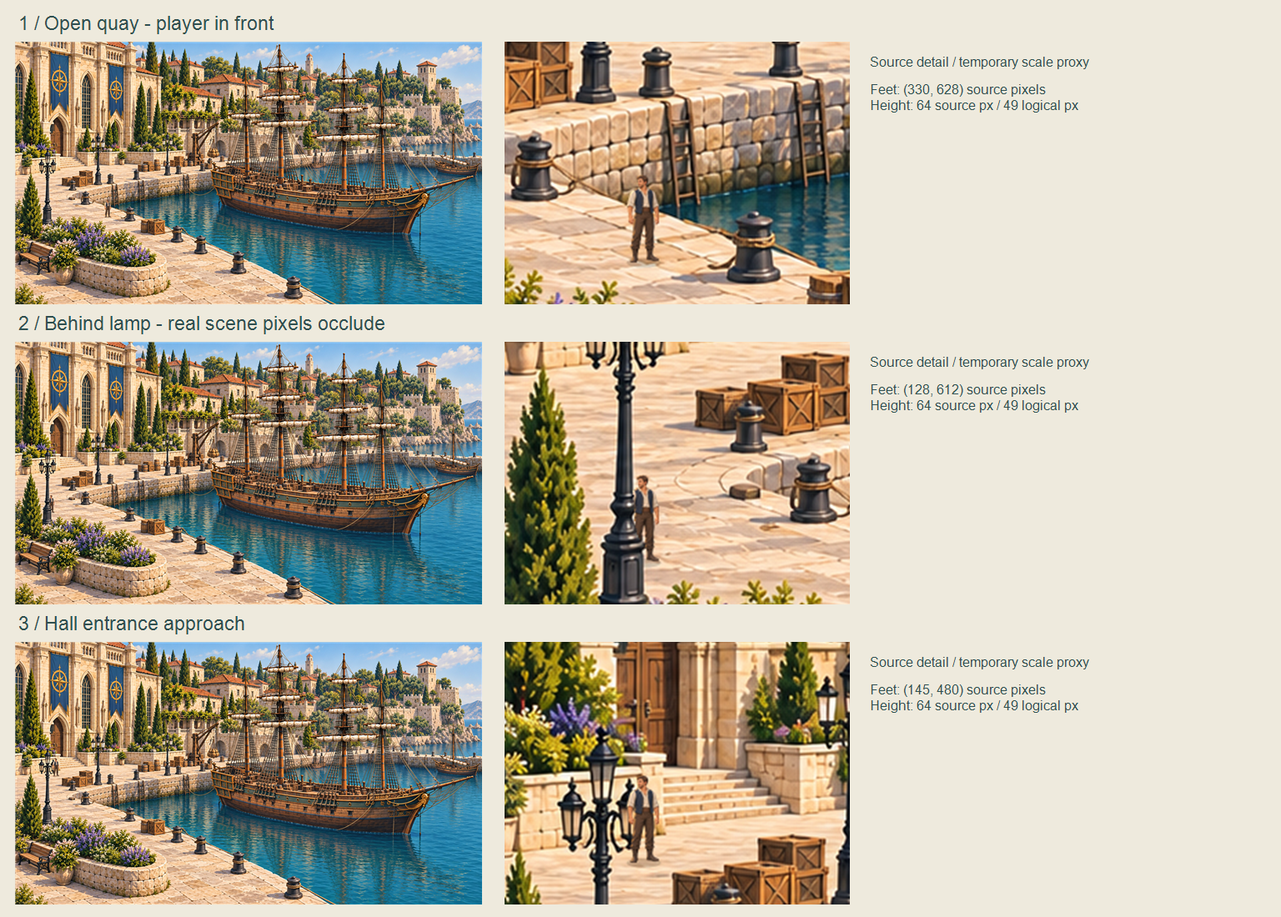
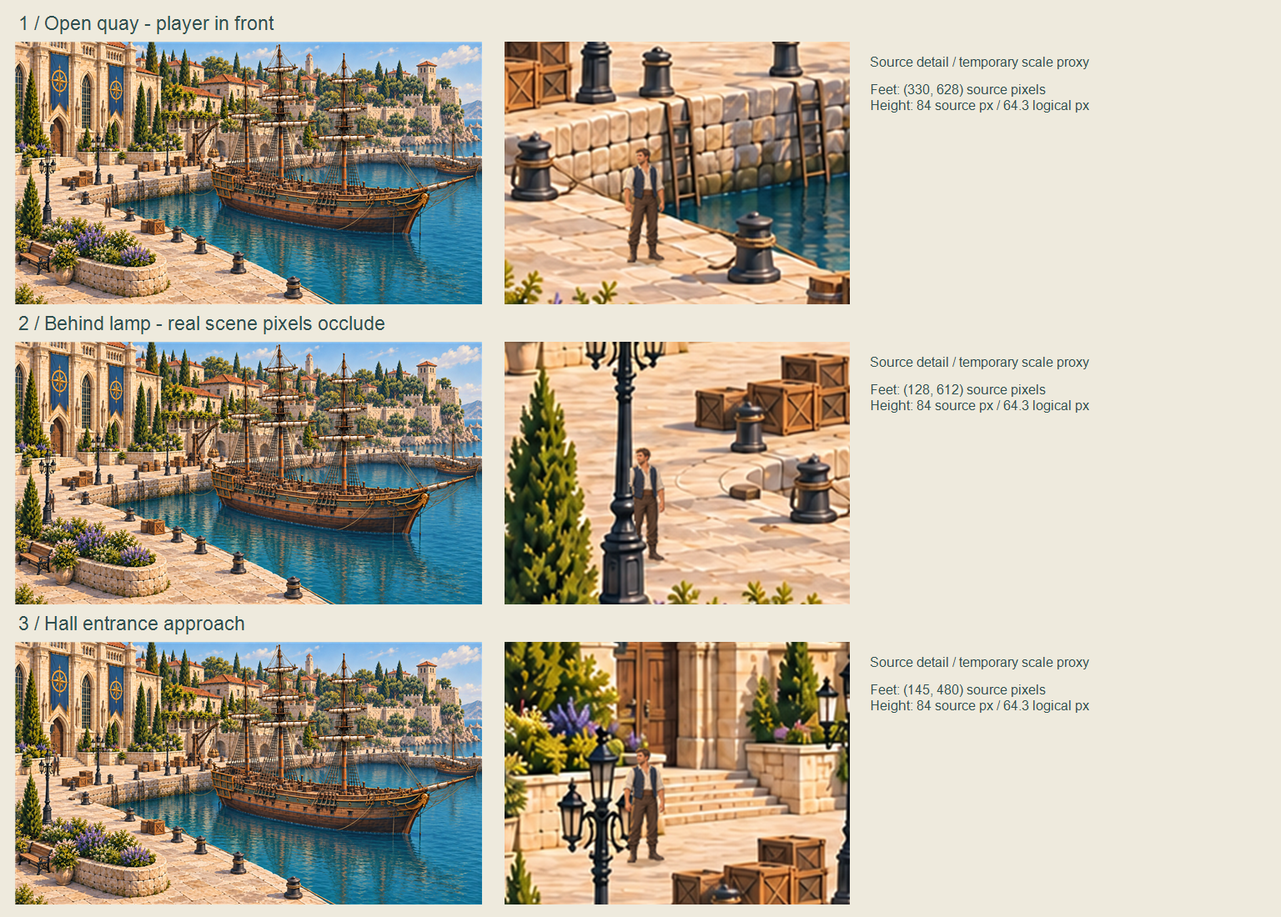
docs(portfolio-world): repair Astra scene-first validation

diff --git a/output/astra-scene-first-playable-harbor/evidence/validate.py b/output/astra-scene-first-playable-harbor/evidence/validate.py
@@ -1,6 +1,6 @@
 """Read-only raster/data QA. No artwork generation or editing."""
 from pathlib import Path
-import hashlib, json
+import hashlib, json, subprocess
 from collections import deque
 import numpy as np
 from PIL import Image, ImageDraw
@@ -37,7 +37,7 @@ water=[(850,750),(1200,850),(1500,650),(450,570),(600,580)]
 architecture=[(160,350),(320,300),(500,300),(700,350)]
 assert all(not allowed[y,x] for x,y in water+architecture)
 assert all(seen[y,x] for x,y in geo['placements'])
-original=read('evidence/authored-initial.png')
+original=read('evidence/authored-repair.png')
 proof=read('layer-reconstruction-proof.png')
 assert np.array_equal(plate,original), 'Plate modified'
 assert np.array_equal(plate,proof), 'Reconstruction seam'
@@ -45,6 +45,21 @@ assert set(np.unique(read('walkable-mask.png')[:,:,0])) <= {0,255}
 assert set(np.unique(read('collision-mask.png')[:,:,0])) <= {0,255}
 assert set(np.unique(fg[:,:,3])) == {0,255}
 assert np.array_equal(fg[fg[:,:,3]>0],plate[fg[:,:,3]>0])
+baseline='1774d5af6c513d2a01de0725987d8081e3245e88'
+unchanged={}
+for name in ['walkable-mask.png','collision-mask.png','interaction-hotspots.json']:
+    rel='output/astra-scene-first-playable-harbor/'+name
+    old=subprocess.check_output(['git','show',baseline+':'+rel],cwd=root)
+    current=(root/name).read_bytes()
+    if name.endswith('.json'):
+        assert current.replace(b'\r\n',b'\n')==old.replace(b'\r\n',b'\n'), 'Hotspot data changed'
+    else:
+        assert current==old, 'Navigation data unexpectedly changed: '+name
+    unchanged[name]=hashlib.sha256(current).hexdigest()
+assert seen[880,720], 'Foreground scale-test placement inaccessible'
+for name in ['director-review-1280x720.jpg','director-review-hero-crop.jpg']:
+    assert (root/'evidence'/name).stat().st_size<1000000
+assert Image.open(root/'evidence/director-review-1280x720.jpg').size==(1280,720)
 files={p.relative_to(root).as_posix():{'bytes':p.stat().st_size,'sha256':hashlib.sha256(p.read_bytes()).hexdigest()} for p in root.glob('*.png')}
 result={'status':'PASS technical mask/recomposition checks only; visual gate remains NO-GO',
  'source_dimensions':[w,h],'logical_viewport':[1280,720],
@@ -54,6 +69,9 @@ result={'status':'PASS technical mask/recomposition checks only; visual gate rem
  'water_samples':water,'architecture_samples':architecture,
  'reconstruction_max_pixel_error':int(np.abs(plate.astype(int)-proof.astype(int)).max()),
  'foreground_opaque_pixels':int((fg[:,:,3]>0).sum()),'foreground_is_exact_source_pixels':True,
+ 'navigation_unchanged_since':baseline,'unchanged_navigation_sha256':unchanged,
+ 'selected_player_height_source':84,'selected_player_height_logical':84*720/941,
+ 'foreground_scale_test_reachable':True,'director_review_jpegs_under_1mb':True,
  'limitations':['Static source-pixel QA, no moving-character runtime test','Collision boundary band samples cardinal directions at 10px; full swept-body collider deferred','Hand-authored navigable domain, not automated semantic segmentation','Foreground validation limited to lamp shaft corridor'],
  'files':files}
 (root/'evidence/logic-validation.json').write_text(json.dumps(result,indent=2)+'\n',encoding='utf-8')

diff --git a/output/astra-scene-first-playable-harbor/evidence/compare-repair.py b/output/astra-scene-first-playable-harbor/evidence/compare-repair.py
@@ -1,0 +1,22 @@
+"""Read-only quantification of the generated localized edit, without masking away drift."""
+from pathlib import Path
+import json
+import numpy as np
+from PIL import Image
+root=Path(__file__).resolve().parents[1]
+a=np.array(Image.open(root/'evidence/authored-initial.png').convert('RGB')).astype(float)
+b=np.array(Image.open(root/'evidence/authored-repair.png').convert('RGB')).astype(float)
+assert a.shape==b.shape==(941,1672,3)
+d=np.abs(a-b)
+regions={'exhibition_hall':[0,0,650,480],'foreground_planter_paving':[0,600,550,941],
+ 'open_water':[1120,720,1672,941],'hero_hull':[720,535,1400,690],
+ 'removed_mast_and_restored_background':[1240,125,1470,550]}
+data={'baseline':'1774d5af6c513d2a01de0725987d8081e3245e88',
+ 'source_dimensions':[1672,941],'regions':{},
+ 'interpretation':'Localized structural change: fourth mast removed. Unmasked non-target texture drift remains; the output is not pixel-identical outside the ship. Visual inspection found preserved composition and architecture, but sail-furling requirement still fails.'}
+for key,(x,y,X,Y) in regions.items():
+    region=d[y:Y,x:X]
+    data['regions'][key]={'bounds':[x,y,X,Y],'mean_absolute_channel_delta_0_255':round(float(region.mean()),4),
+     'fraction_pixels_mean_rgb_delta_gt_20':round(float((region.mean(2)>20).mean()),6)}
+(root/'evidence/repair-comparison.json').write_text(json.dumps(data,indent=2)+'\n',encoding='utf-8')
+print(json.dumps(data,indent=2))

diff --git a/output/astra-scene-first-playable-harbor/validation-result.md b/output/astra-scene-first-playable-harbor/validation-result.md
@@ -1,59 +1,83 @@
 # Astra Scene-First Playable Harbor Validation: COMPLETE
 
+Final bounded repair gate. Starting HEAD: `1774d5af6c513d2a01de0725987d8081e3245e88`.
+
 Master Reference:
 `output/astra-master-harbor-benchmark/master-harbor-scene-final.png`
 
 Scene-First Final:
 `output/astra-scene-first-playable-harbor/scene-first-vertical-slice-final.png`
 
+**The localized edit completed successfully and removed the fourth mast. The gate still fails because hanging scalloped canvas remains and no tested constant player scale is convincing across the entire foreground route. This is not a capacity-blocked result.**
+
 Assessment:
 
-| Criterion | Result | Evidence and limit |
+| Criterion | Result | Current evidence |
 | --- | --- | --- |
-| Master visual continuity | PASS | Warm limestone, terracotta, navy/gold, timber and teal water retain the same visual family. The sky and distant fortified waterfront introduce camera/context drift; the result is not a pixel-identical continuation. |
-| Whole-scene cohesion | PASS | Quay turns, contact shadows, localized planting, hull reflection and continuous ground read as one authored place, substantially closer to A than the repeated surfaces and pasted structures of B. |
-| Hero Ship quality | **FAIL** | Landmark rendering and water contact are strong, but **four visible deck-rooted masts violate the required three-mast identity**. Cream bundles also retain conspicuous hanging scallops. Requested correction was blocked before generation. |
-| Environment integration | PASS | Water, masonry, timber, roofs and foliage share lighting and detail treatment. No primary water/paving tiles or copied trees were assembled. Large foreground paving units remain a scale concern. |
-| Projection consistency | PASS | Buildings and hull share a coherent illustrated scene with upright structures and strong elevations. More perspective recession than the Master means a fixed-size actor needs broader scale validation. No numeric-angle test was used. |
-| Foreground occlusion viability | PASS | Limited static lamp corridor: original opaque scene pixels cover part of the proxy naturally. Recomposition has zero pixel error. This proves a static redraw stencil, not a removable-object/clean-background pipeline. |
-| Player integration viability | **FAIL** | Three local placements show contact and partial lamp occlusion, but the fixed 49-logical-pixel proxy is small against the large foreground bollards/paving; convincing scale over the entire lower playable promenade is not established. No moving-player test was performed. |
-| Navigation-mask viability | PASS | Start, all three proof placements and every pixel of all three hotspot polygons share a connected legal route. Water and major architecture sample points are blocked. This is mask-level viability only. |
+| Master visual continuity | PASS | The established warm stone, timber, navy/gold and sheltered teal-water world survives the edit. |
+| Whole-scene cohesion | PASS | No modular assembly was introduced; continuous quay, lighting and reflections retain the previous scene's cohesion. |
+| Hero Ship mast count | PASS | Exactly three deck-rooted groups at approximately source x=827,941,1177. Extra bow-side mast near x=1340 removed, with natural waterfront restoration behind it. |
+| Hero Ship furled sails | **FAIL** | Several yards retain deep scalloped hanging cream fabric instead of compact rolls directly on spars. New prominent gathered cloth on the bowsprit also fails the strict compact-bundle requirement. No broad deployed sail is present, but that alone is insufficient. |
+| Hero Ship overall quality | **FAIL** | Landmark hull and three-mast silhouette are retained; required sail semantics remain wrong. |
+| Environment integration | PASS | Waterline, berth, water, quay and architecture remain integrated; no visible patch seam found at the removed mast. |
+| Projection consistency | PASS | No substantial camera, perspective or composition change. Existing foreground depth scaling remains relevant to player calibration. |
+| Foreground occlusion viability | PASS | Same lamp alpha selection, refreshed with repaired source RGB. Proxy is naturally partly behind the shaft; static reconstruction is exact. |
+| Player integration viability | **FAIL** | Approximately 64 logical px is the best tested scale at Hall and middle quay, but the nearest bollards/paving still make the actor appear undersized. The 49 and 56 px candidates are worse. No tested constant scale clears the full-route requirement. |
+| Navigation-mask viability | PASS | Existing masks and hotspot data unchanged; all required routes, hotspot polygons and four scale-test positions remain accessible. |
+
+## Bounded edit and locality
+
+One completed localized image edit was performed in this final repair gate. The prior attempt at starting HEAD had returned HTTP 429 before producing an image; capacity was available for this attempt. No new complete scene, new harbor design, new character or further art iteration was generated.
+
+The before image remains `evidence/authored-initial.png`; the returned repair is `evidence/authored-repair.png`. The environment plate is an exact copy of the latter. Actual inspection found retained layouts of the Hall, quay, hull, water, vegetation and secondary vessel. Texture-level drift outside the target is measurable, so this is not claimed as a pixel-locked masked edit.
+
+`evidence/repair-comparison.json` records mean absolute RGB-channel differences on a 0–255 scale: Hall 10.65, foreground 13.31, open water 5.63, hull 7.44, removed-mast/background area 25.58. These numbers document drift, not a stand-alone quality pass. The largest structural change is where intended; unrelated architecture/water/quay composition did not change substantially enough to reject the entire returned image. The visible sail defects still prevent acceptance.
 
 Refinement cycles used:
-**1 / 2 attempted; 0 completed art refinements.** One initial whole-scene generation succeeded. The first localized correction returned HTTP 429 `usage_limit_reached`; no correction image exists. The result does not demonstrate that successful refinement would require more than two cycles.
+**1 completed bounded repair in this gate.** Across the original validation plus repair: two edit requests, one capacity-blocked and one completed. No further visual repair was attempted.
 
-## Visual inspection performed
+## Player-scale selection
 
-Opened the actual Master and failed modular reference before production. Opened the authored candidate, final 1280 × 720 gameplay-like frame, labeled three-placement proof, full static reconstruction, foreground PNG, walkable PNG and collision PNG. Inspected the lamp crop and proxy source. Final output contains one natural frame with one temporary player and no debug labels or masks.
+The existing temporary proxy was rendered at 64, 73 and 84 source pixels: approximately 49, 56 and 64 logical pixels. All three were compared at Hall (145,480), middle quay (330,628), lamp (128,612) and foreground promenade (720,880). See `evidence/player-scale-comparison.png`.
 
-The strongest improvement over B is authored continuity: the water has localized reflections, the quay bends without repeating wall modules, and vegetation belongs to the architecture and ground. The hard ship error is visible in the actual image: mast groups at approximately source x=827, 941, 1177 and 1340. No amount of successful mask testing overrides that failure.
+Selected review-frame height: **84 source px = 64.27 logical px**, called the 64 px candidate. The larger candidate gives the most credible door/body and mid-quay furniture relationship and keeps useful path width. It is the best available candidate, not an approved final character scale: the foreground still reads too large around it. Increasing the tested range indefinitely or introducing perspective scaling would exceed this bounded evaluation. No character art was generated or changed.
 
-The foreground-hidden plate was inspected: it remains the original complete scene because this workflow deliberately retains the baked lamp below the identical foreground redraw. There is no repaired patch, smear or hole. This avoids unnecessary background regeneration but does not prove clean-background extraction behind a movable object.
+## Actual visual QA
 
-## Gameplay logic evidence
+Opened the original plate, returned repair, 12-panel scale comparison, native Hero review crop, rebuilt final gameplay frame, three-position proof and full layer reconstruction. Examined the revised ship's mast bases and retained yards, restored shoreline behind the removed mast, hull/water contact and player contact at the four positions. The final frame and Director JPEG have no labels, masks or debug marks.
 
-`evidence/logic-validation.json` records the reproducible assertions from `python output/astra-scene-first-playable-harbor/evidence/validate.py`:
+The three-mast correction visibly succeeded. The sail correction visibly did not. The contact and lamp occlusion mechanism works, while whole-route scale remains unconvincing. These findings govern the gate independently of successful scripts.
 
-- Native masks: 1672 × 941; binary values; foreground alpha is real 0/255.
-- Start (330,628), Hall (145,480), Quay (335,633), Square return (28,514): accessible and connected.
-- All hotspot polygon pixels are accessible, not only their centers.
-- 130,433 reachable pixels of 131,004 legal pixels (99.564%); 571 isolated nonessential pixels remain outside the start component. No required route depends on those pockets.
-- Water and major-architecture test samples are not legal movement positions. The hand-authored ground boundary also excludes their visible regions.
-- Static recomposition maximum channel difference: **0**. Foreground contains **2,727** opaque pixels, all copied exactly from the same source coordinates.
-- The initial start-near-edge failure and return-polygon-boundary failure were corrected by moving the QA start and shrinking the transition polygon. The navigation surface was not expanded into water to make tests pass.
+## Technical QA
 
-## Major risks
+Commands completed successfully:
 
-1. Four-mast Hero Ship and loose furled-canvas treatment remain uncorrected due to image-service quota. This is the decisive semantic failure.
-2. Foreground object/paving scale versus a fixed-size actor needs a resolved camera/scale decision and continuous-motion validation. Broadening the scene-first claim from three still frames would be premature.
-3. Occlusion covers a single bounded lamp shaft corridor. Full-scene depth switching, diagonal/swept collision, entrance traversal and tiny isolated mask pockets require future implementation decisions only after a new visual gate passes.
-4. Generation introduced a sky/horizon and fortified distant waterfront absent from the Master's tighter crop. The visual family survives, but continuity should be judged at scene level rather than inferred from palette alone.
+```text
+powershell -NoProfile -ExecutionPolicy Bypass -File output/astra-scene-first-playable-harbor/evidence/repair-review.ps1
+python output/astra-scene-first-playable-harbor/evidence/validate.py
+python output/astra-scene-first-playable-harbor/evidence/compare-repair.py
+```
 
-## Scope and disposition
+- Walkable/collision PNGs are byte-identical to starting HEAD; hotspot JSON is unchanged (Git line-ending normalization accounted for). No navigation edits were necessary.
+- Start, all three hotspot centers, every pixel of their polygons and all four scale-test positions are reachable.
+- Water and architecture samples remain blocked; no route regression.
+- Reachable legal area remains 130,433 / 131,004 pixels (99.564%); 571 nonessential isolated pixels remain an existing limitation.
+- Foreground uses the same 2,727 opaque source coordinates, now sampled from the repaired plate. Maximum reconstruction channel difference: **0**.
+- Exact 1280 × 720 Director JPEG: 437,931 bytes; Hero crop 1012 × 750: 319,067 bytes. Both below 1 MB, JPEG quality 92.
 
-All work is new evidence under `output/astra-scene-first-playable-harbor/`. No runtime, public game assets, root portfolio files or previous Astra evidence were modified. No individual asset approval was requested. No routes or water animation were implemented.
+Director files:
 
-The scene-first method retains substantially more visual cohesion than the failed modular reconstruction, but **this delivered candidate does not pass**. Preserve the evidence; do not begin Codex integration from it. This report is a completed failed-candidate validation, not a claim that the game or art pipeline is production-ready.
+- `evidence/director-review-1280x720.jpg`
+- `evidence/director-review-hero-crop.jpg`
+
+## Major remaining risks
+
+1. Sail bundles still violate the explicit no-deep-scallops rule; the generated correction only partially satisfies the ship request.
+2. Player scale improves locally but fails across the closest foreground cues at all three tested constant heights.
+3. The edit introduces non-target texture drift, though spatial layout is preserved. General pixel-locked edit repeatability is not established.
+4. Occlusion is proven only for one bounded static lamp corridor; movement, swept collisions, entrance traversal and tiny isolated mask pockets remain outside this static validation.
+
+Only the existing scene-first output directory was changed. Runtime, prior benchmarks, root portfolio files, masks and hotspot definitions were left untouched. This commit records a completed failed repair, not visual success or production readiness. Do not begin Codex scene-first integration from this candidate.
 
 FINAL GATE:
 **ASTRA_SCENE_FIRST_NO_GO**

diff --git a/output/astra-scene-first-playable-harbor/generation-record.md b/output/astra-scene-first-playable-harbor/generation-record.md
@@ -4,14 +4,28 @@ Date: 2026-09-26. Workflow label: Astra scene-first validation; this label does 
 
 Built-in `image_gen.imagegen` was used with the actual Master Harbor image as its sole visual reference. The Visual Brief, Art Bible, R3A.1 semantic correction and failed modular report were read. Exact initial and attempted correction prompts are in `evidence/generation-prompts.txt`.
 
-Initial generation produced one complete 1672 × 941 authored scene. Saved source: `evidence/authored-initial.png`; `environment-plate.png` is a byte-for-byte copy. Original service output: `C:\Users\user\.codex\generated_images\01a0dd10-9f2a-7223-bfe0-b8bc3967e1bf\exec-4c8f8cf2-03a4-48a8-a3b0-47d568441332.png`.
+Initial generation produced one complete 1672 × 941 authored scene. The original source is preserved unchanged as `evidence/authored-initial.png`. The current plate is now the bounded repair described below. Original service output: `C:\Users\user\.codex\generated_images\01a0dd10-9f2a-7223-bfe0-b8bc3967e1bf\exec-4c8f8cf2-03a4-48a8-a3b0-47d568441332.png`.
 
 Inspection found four deck-rooted Hero Ship masts, violating the three-mast lock, and hanging sail bundles that should be tighter. A localized correction was requested to remove the rightmost mast and tighten the canvas while preserving the rest of the scene. The service returned HTTP 429 `usage_limit_reached` before producing any correction image. No paid/API fallback was used, and no manual alteration disguised the ship failure.
 
-Refinement budget accounting: **1 / 2 cycle slots attempted; 0 completed art refinements**. The attempted correction was blocked by service availability, not judged to require endless repair. Routine hotspot/QA placement correction moved the starting position inward after the first navigation assertion caught insufficient shoreline clearance. No further scene-generation cycle was attempted.
+Original-run refinement accounting: **1 / 2 cycle slots attempted; 0 completed art refinements** at commit `1774d5a`. That attempt was blocked by service availability. The user subsequently authorized ONE final bounded repair of that same scene. One image-edit call completed in this repair gate; no additional art retry or new whole-scene design was attempted. Cumulative: two edit calls attempted, one blocked and one completed.
 
 Deterministic deliverables were generated by `evidence/build-evidence.ps1` with System.Drawing: exact source-pixel foreground stencil, binary masks, static recomposition, temporary-proxy composites, labeled proof and A/B/C comparison. This performs no environment painting, no generative background repair and no modular scene reconstruction. The existing worker is the only independently composited art and serves solely as the requested temporary player proxy. Its source is copied into evidence for reproducibility. Existing benchmark files were read only.
 
 `evidence/validate.py` is read-only raster/data QA: exact reconstruction comparison, binary masks, foreground alpha/source identity, four-neighbor flood fill, full hotspot-region accessibility and water/architecture exclusion samples. It writes machine-readable results to `evidence/logic-validation.json`. Scripts are evidence tools, not game runtime edits.
 
-Image service failure limits the conclusion: this run demonstrates the output of one successful whole-scene generation and limited static playability evidence. It cannot establish that the intended semantic correction would succeed within the remaining budget. NO-GO applies to this delivered candidate, not to every possible scene-first workflow.
+## Final bounded repair gate
+
+Starting HEAD: `1774d5af6c513d2a01de0725987d8081e3245e88`, branch `feature/portfolio-world-rebuild-v2`. Built-in image editing succeeded this time; this gate is **not blocked by capacity**. Exact prompt is in `evidence/repair-prompt.txt`. Edit target was the existing `environment-plate.png`; no new scene prompt or character generation was used.
+
+Service output: `C:\Users\user\.codex\generated_images\01a0dd10-9f2a-7223-bfe0-b8bc3967e1bf\exec-34c8d97b-58fb-4705-ba0f-ff5c727cb84b.png`, preserved as `evidence/authored-repair.png` and copied byte-for-byte to the current environment plate.
+
+Verified exactly three deck-rooted Hero mast groups near source x=827,941,1177; the former rightmost x≈1340 group is removed and its background restored. Hull, berth, waterline, camera and architecture retain their layouts. The edit is not pixel-identical elsewhere: average channel delta is 10.65/255 in the Hall region, 13.31/255 in foreground planting/paving and 5.63/255 in open water, versus 25.58/255 around the removed mast. Actual image inspection found no substantial unrelated structural/composition change; texture drift is reported rather than hidden. The delivered candidate retains deep scalloped canvas and adds conspicuous gathered cloth along the bowsprit, so the furled-sail requirement is still **FAIL**.
+
+Existing proxy scales 49/56/64 logical pixels were compared at four scene positions in `evidence/player-scale-comparison.png`. Selected 84 source pixels, approximately 64.3 logical, as the best review-frame scale. It improves Hall and middle-quay proportions without making the doorway too small, but the closest bollards/paving still dwarf the proxy enough that the full-route scale gate remains **FAIL**. No new character art, camera redesign or position-dependent scaling was introduced.
+
+Rebuilt the plate, exact foreground redraw, static reconstruction, three-position proof, final frame and reference comparison. Masks and hotspot data remain unchanged from starting HEAD. `validate.py` passes, including equality to baseline navigation data (JSON line endings normalized for Git), all hotspot polygons reachable, water/architecture exclusion and zero reconstruction error. `compare-repair.py` records the unmasked edit deltas.
+
+Director review JPEGs use quality 92 without changing artwork: `director-review-1280x720.jpg` (1280 × 720, 437,931 bytes) and `director-review-hero-crop.jpg` (1012 × 750, 319,067 bytes). The former is the exact final frame with JPEG encoding; the latter is a native crop of the repaired plate retaining all three masts, hull and nearby quay/water.
+
+Final decision: **ASTRA_SCENE_FIRST_NO_GO** based on a completed visual correction that still fails the requested sail and full-route player-scale requirements. This is a failed-result evidence commit, not visual-success approval. No further Astra art refinement was performed.

diff --git a/output/astra-scene-first-playable-harbor/scene-spec.md b/output/astra-scene-first-playable-harbor/scene-spec.md
@@ -4,15 +4,15 @@
 - Scope: Harbor Square west transition → Exhibition Hall entrance approach → continuous Hero Quay → baked Hero Ship and sheltered water. This candidate is **NO-GO**, not an integration-approved asset.
 - Camera: one bounded view, no camera scrolling required or tested. Native source provides about 1.3× sampling at the intended viewport. No unnecessarily large background was produced.
 - Memory: one RGBA source texture is approximately 6.00 MiB decoded; plate plus full-canvas foreground is approximately 12.00 MiB before GPU padding/mipmaps. Each 8-bit CPU navigation mask is approximately 1.50 MiB; PNG file size is not runtime memory. Foreground can later use a cropped texture with an offset after approval.
-- Player: a **temporary** previously generated worker from `../astra-vertical-slice-validation/assets/props/scale-worker.png`, rendered at 24 × 64 source pixels (about 18 × 49 logical). Bottom center is the feet anchor. A subtle separate contact shadow is QA-only. No character is baked into the environment plate. No claim of final character-art approval.
+- Player: the same **temporary** worker from `../astra-vertical-slice-validation/assets/props/scale-worker.png`, now rendered at 31 × 84 source pixels (about 24 × 64.3 logical). Bottom center is the feet anchor. Tested heights: 64/73/84 source pixels, approximately 49/56/64 logical, at Hall, middle quay, lamp and foreground promenade. Selected approximately 64 logical for the review frame because it best matches the entrance and middle-quay furniture. It still reads small beside the nearest foreground bollards; no tested constant scale passed across the full playable promenade. Selection is a best-candidate choice, not scale approval. No new character art was generated. Contact shadow remains QA-only.
 
 ## Baked and separated content
 
-Buildings, ship, smaller vessel, quay, paving, greenery, planter, cargo, shadows, water and reflections remain one unchanged authored picture. Nothing is rebuilt from tiles or reusable environmental sprites. No water-motion overlay: retaining the coherent painted water is more valuable than introducing unvalidated movement.
+Buildings, ship, smaller vessel, quay, paving, greenery, planter, cargo, shadows, water and reflections remain one scene-authored picture. The current plate is a copy of `evidence/authored-repair.png`, produced by the final bounded localized edit of the original plate. The extra bow-side mast was removed; exactly three deck-rooted groups remain. Hanging scalloped canvas persists, so the sail repair fails. Composition and spatial relationships survived, with measured non-target texture drift documented in `evidence/repair-comparison.json`. Nothing is rebuilt from tiles or reusable environmental sprites. No water-motion overlay was introduced.
 
 `foreground-occlusion.png` contains only exact source pixels from the foreground lamp shaft/base, within source bounds x=99–130, y=479–651. The crown remains baked because allowed actor heads in this corridor cannot reach it. This is a small gameplay occlusion stencil, not a new reusable lamp asset. The planter was considered but not separated: its physical footprint is excluded, and the lamp gives a much cleaner meaningful depth test without foliage reconstruction.
 
-The original lamp remains in the base plate. Rendering the same opaque source pixels above an actor restores the lamp where that actor overlaps it. This deliberate duplicate redraw requires **no background hole and no inpainting**; hiding the foreground leaves the original intact scene. It is appropriate for static objects that never move or disappear. It does not validate extraction into a removable prop or a clean background behind the lamp.
+The lamp remains in the base plate. The foreground RGB was refreshed from the repaired plate using the unchanged alpha selection, so its redraw is still exact. Rendering those opaque pixels above an actor restores the lamp where that actor overlaps it. This requires **no background hole or lamp inpainting**; hiding the foreground leaves the intact scene. The image model separately restored the background behind the removed ship mast. This stencil does not validate extraction of a removable prop.
 
 Draw the foreground above the player when the player's feet are behind the lamp base (source y < 652) and the player's head is below y=479. In front of the base, draw the player above it. This rule applies only to the bounded local lamp corridor, not every scene object. Ship rigging is outside player space and stays baked. Static reconstruction is pixel-identical to the authored target.
 
